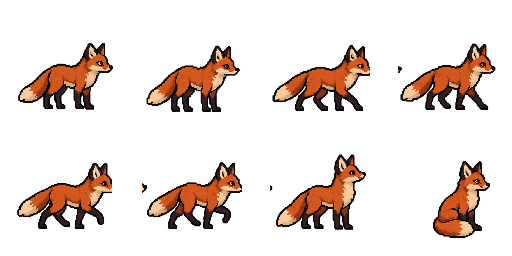
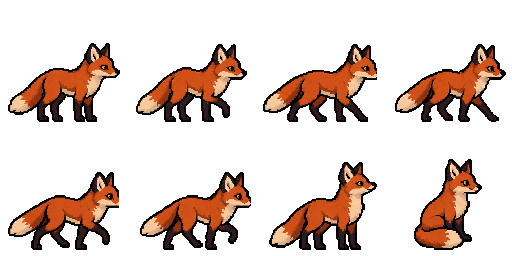
Remove stray pixels from fox walk sprites

diff --git a/public/sw.js b/public/sw.js
@@ -1,4 +1,4 @@
-const CACHE='rumbo-al-sur-v3';
+const CACHE='rumbo-al-sur-v4';
 self.addEventListener('install',event=>{
  self.skipWaiting();
  event.waitUntil(caches.open(CACHE).then(cache=>cache.addAll(['./','./index.html','./manifest.webmanifest'])));

diff --git a/tools/process_wildlife_sheets.py b/tools/process_wildlife_sheets.py
@@ -57,9 +57,74 @@ def remove_preview_background(image: Image.Image) -> Image.Image:
     return rgba
 
 
+def remove_tiny_specks(image: Image.Image, maximum: int = 180, keep_bottom: int = 45) -> Image.Image:
+    """Drop detached one-pixel noise while retaining separate paws and tail tips."""
+    rgba = image.convert("RGBA")
+    alpha = rgba.getchannel("A")
+    width, height = rgba.size
+    seen = bytearray(width * height)
+    for start in range(width * height):
+        x, y = start % width, start // width
+        if seen[start] or alpha.getpixel((x, y)) == 0:
+            continue
+        stack = [start]
+        seen[start] = 1
+        component = []
+        while stack:
+            index = stack.pop()
+            component.append(index)
+            px, py = index % width, index // width
+            for ny in range(max(0, py - 1), min(height, py + 2)):
+                for nx in range(max(0, px - 1), min(width, px + 2)):
+                    neighbor = ny * width + nx
+                    if not seen[neighbor] and alpha.getpixel((nx, ny)):
+                        seen[neighbor] = 1
+                        stack.append(neighbor)
+        bottommost = max(index // width for index in component)
+        # A few naturally detached paw pixels can sit at the foot baseline.
+        if len(component) <= maximum and bottommost < height - keep_bottom:
+            for index in component:
+                alpha.putpixel((index % width, index // width), 0)
+    rgba.putalpha(alpha)
+    return rgba
+
+
+def clean_fox_edge_fringe(image: Image.Image) -> Image.Image:
+    """Replace isolated bright matte colors on the silhouette with dark outline."""
+    rgba = image.convert("RGBA")
+    rgba.putalpha(rgba.getchannel("A").point(lambda value: 255 if value >= 160 else 0))
+    pixels = rgba.load()
+    width, height = rgba.size
+    original = rgba.copy().load()
+    for y in range(height):
+        for x in range(width):
+            red, green, blue, alpha = original[x, y]
+            if alpha == 0:
+                continue
+            if not any(0 <= nx < width and 0 <= ny < height and original[nx, ny][3] == 0
+                       for nx, ny in ((x - 1, y), (x + 1, y), (x, y - 1), (x, y + 1))):
+                continue
+            bright_neutral = max(red, green, blue) - min(red, green, blue) < 24 and min(red, green, blue) > 155
+            stray_red = red > 120 and green < 28 and blue < 65
+            stray_yellow = red > 100 and green > 100 and blue < 24 and abs(red - green) < 32
+            if not (bright_neutral or stray_red or stray_yellow):
+                continue
+            dark_neighbors = []
+            for ny in range(max(0, y - 2), min(height, y + 3)):
+                for nx in range(max(0, x - 2), min(width, x + 3)):
+                    nr, ng, nb, na = original[nx, ny]
+                    if na and max(nr, ng, nb) < 105:
+                        dark_neighbors.append((nr + ng + nb, nr, ng, nb))
+            if dark_neighbors:
+                _, nr, ng, nb = min(dark_neighbors)
+                pixels[x, y] = (nr, ng, nb, alpha)
+    return rgba
+
+
 def normalize(name: str) -> None:
-    source_name = f"{name}-source-v2.png" if name in {"condor", "fox"} else f"{name}-source.png"
-    source = remove_preview_background(Image.open(SOURCE / source_name))
+    source_version = "v3" if name == "fox" else "v2" if name == "condor" else None
+    source_name = f"{name}-source-{source_version}.png" if source_version else f"{name}-source.png"
+    source = Image.open(SOURCE / source_name)
     sheet = Image.new("RGBA", (FRAME * GRID[0], FRAME * GRID[1]))
     max_width, max_height = LIMITS[name]
     cells = []
@@ -70,6 +135,11 @@ def normalize(name: str) -> None:
             top = round(row * source.height / GRID[1])
             bottom = round((row + 1) * source.height / GRID[1])
             cell = source.crop((left, top, right, bottom))
+            if name == "fox":
+                cell = remove_tiny_specks(cell)
+                cell = clean_fox_edge_fringe(cell)
+            else:
+                cell = remove_preview_background(cell)
             bounds = cell.getbbox()
             if not bounds:
                 raise RuntimeError(f"Empty {name} frame at {column}, {row}")
@@ -89,6 +159,15 @@ def normalize(name: str) -> None:
         else:
             y = row * FRAME + 122 - size[1]
         sheet.alpha_composite(animal, (x, y))
+    if name == "fox":
+        # A final cleanup at runtime resolution catches detached specks that
+        # looked harmless in the large source but became visible after scaling.
+        for row in range(GRID[1]):
+            for column in range(GRID[0]):
+                box = (column * FRAME, row * FRAME, (column + 1) * FRAME, (row + 1) * FRAME)
+                tile = sheet.crop(box)
+                tile = clean_fox_edge_fringe(remove_tiny_specks(tile, maximum=70, keep_bottom=10))
+                sheet.paste(tile, box)
     sheet.save(OUTPUT / f"{name}-sheet.png", optimize=True)
 
 
